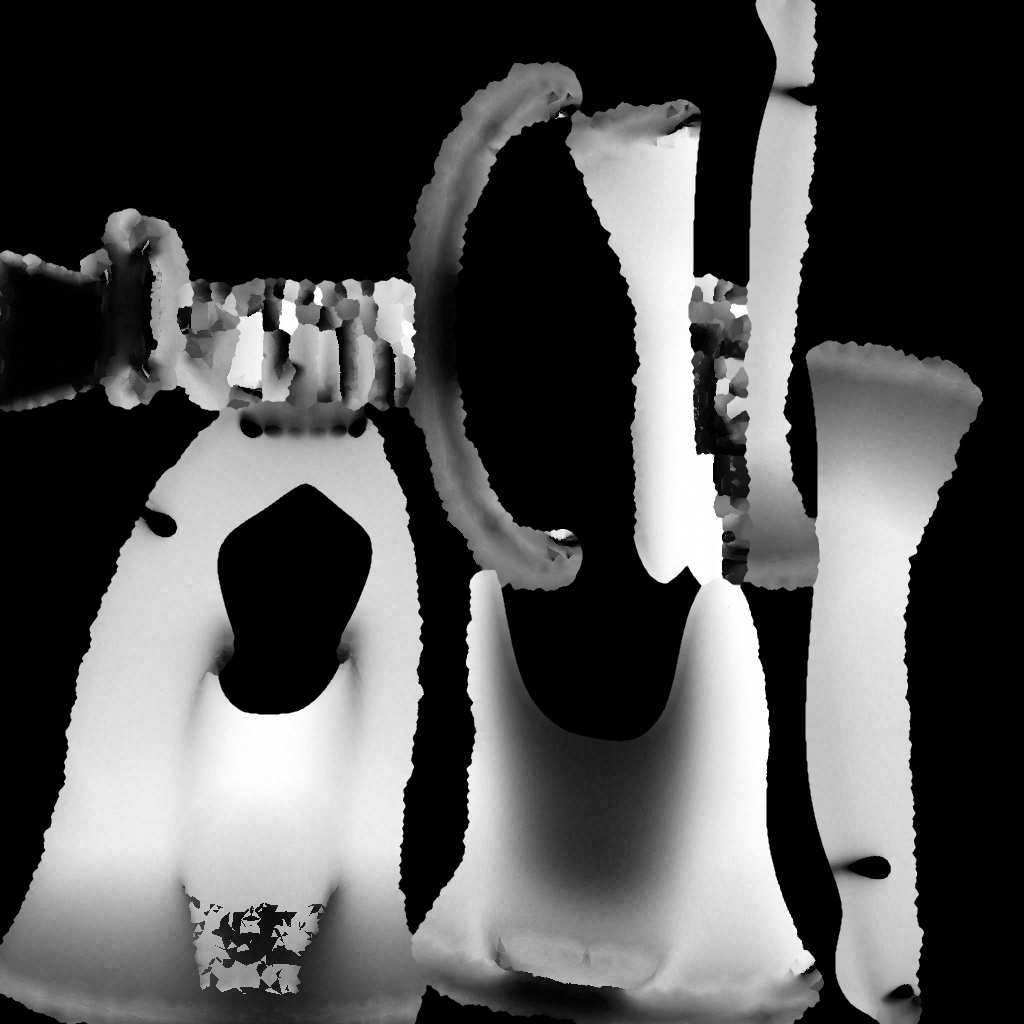
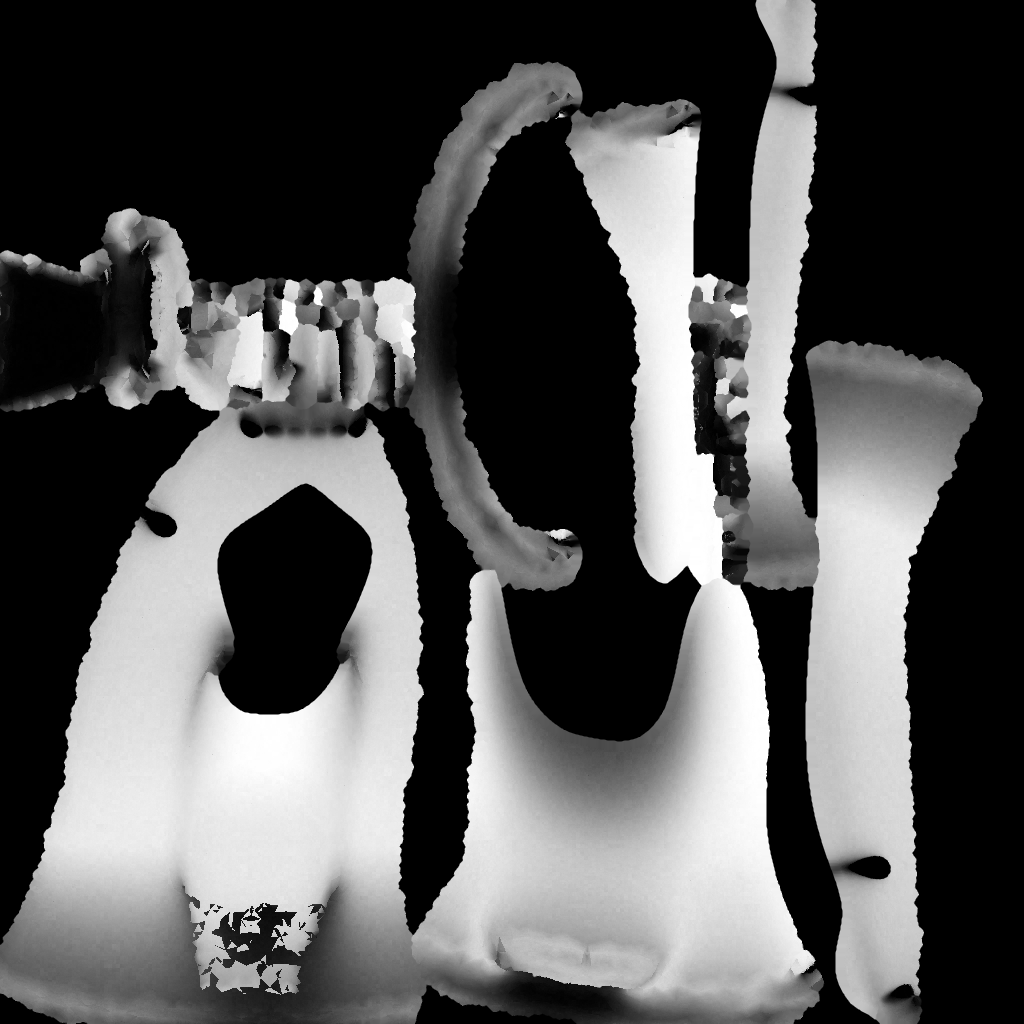
fix(dog): Pant's tongue lies over the lower incisors, not through them (#1533)
The tongue's tip bend (tongue_03) pivoted 9 mm behind the lower incisors,
so in every Pant frame it went down through the tooth row: the lower
incisors up to 5.5 mm inside the tongue, the canines 2 mm, and the lower
lip 5.4 mm (Blender, every frame at 30 fps). The tongue now slides out
45 mm and lifts 10 mm, so the bend lands in front of the incisors and the
tongue lies over them; the closest frame leaves 1.7 mm over the incisors,
2.5 mm over the canines and 4.6 mm over the lower lip.

Regenerated with build_dog.py: Dog.gltf and Dog.bin differ only in Pant's
three tongue channels (the mesh, the skin and the other clips are
byte-identical). The mouth's occlusion maps are baked in the Pant pose,
so they are re-baked; the old ones carried the teeth inside the tongue.
The groom is not re-cooked.

diff --git a/OloEditor/SandboxProject/Assets/Models/Dog/build_dog.py b/OloEditor/SandboxProject/Assets/Models/Dog/build_dog.py
@@ -3295,14 +3295,16 @@ def clip_pant(r, t):
     """2 s loop: the mouth open, the tongue out over the lower lip, the chest heaving, one blink."""
     s = math.sin(2 * math.pi * 4 * t)
     r.rot("jaw", AX_X, 22.0 + 3.0 * s)
-    # The tongue SLIDES out over the lower incisors first (its bend pivots sit behind the lip,
-    # so bending in place drove the tip through the chin), then hangs over the lip. Lifted 7 mm
-    # as it goes: the incisors stand clear of the gum (_teeth_layout), and at the
-    # first 3 mm the tongue slid through them.
-    r.move("tongue_01", (0.0, -0.030, 0.007))
-    r.rot("tongue_01", AX_X, -4.0)
+    # The tongue SLIDES out 45 mm and lifts 10 mm, so tongue_03's bend pivot lands in front of the
+    # lower incisors: the tongue lies over them and hangs past the lip from there. A bend pivot
+    # behind the incisors drives the tongue down through them (they stand 5.5 mm clear of the gum,
+    # _teeth_layout), and bending in place drives the tip through the chin. At 30 fps the closest
+    # frame leaves 1.7 mm over the incisors, 2.5 mm over the canines and 4.6 mm over the lower lip;
+    # DogShowcaseEvidenceTest's TheTeethStayOutOfTheTongueThroughEveryClip holds every clip to it.
+    r.move("tongue_01", (0.0, -0.045, 0.010))
+    r.rot("tongue_01", AX_X, -6.0)
     r.rot("tongue_02", AX_X, 6.0 + 2.0 * s)
-    r.rot("tongue_03", AX_X, 28.0 + 5.0 * s)
+    r.rot("tongue_03", AX_X, 35.0 + 5.0 * s)
     breathe(r, t, 4, 2.2)
     brows(r, 0.35 + 0.1 * s)
     blink(r, _pulse(t, 0.62, 0.03, 0.01, 0.04))

diff --git a/OloEditor/SandboxProject/Assets/Models/Dog/README.md b/OloEditor/SandboxProject/Assets/Models/Dog/README.md
@@ -93,8 +93,10 @@ pelt and regrow every clump of the coat; grown on the resized mouth, the coat is
 strand. The tongue, gums, lips and teeth are then re-unwrapped into their own squares
 (`unwrap_material`) and get their maps (`bake_mouth`): colour painted in 3D from the baked surface,
 the tongue's papillae as a Cycles normal bake, and occlusion from the whole head in the Pant pose,
-the only clip that shows the inside of the mouth. In Pant the tongue lifts 7 mm as it slides out,
-over the incisors.
+the only clip that shows the inside of the mouth. In Pant the tongue slides out 45 mm and lifts
+10 mm, so its tip bends in front of the lower incisors and it lies over them; a bend behind them
+drives the tongue through the tooth row. `TheTeethStayOutOfTheTongueThroughEveryClip` holds every
+clip to it.
 
 ## The coat
 
